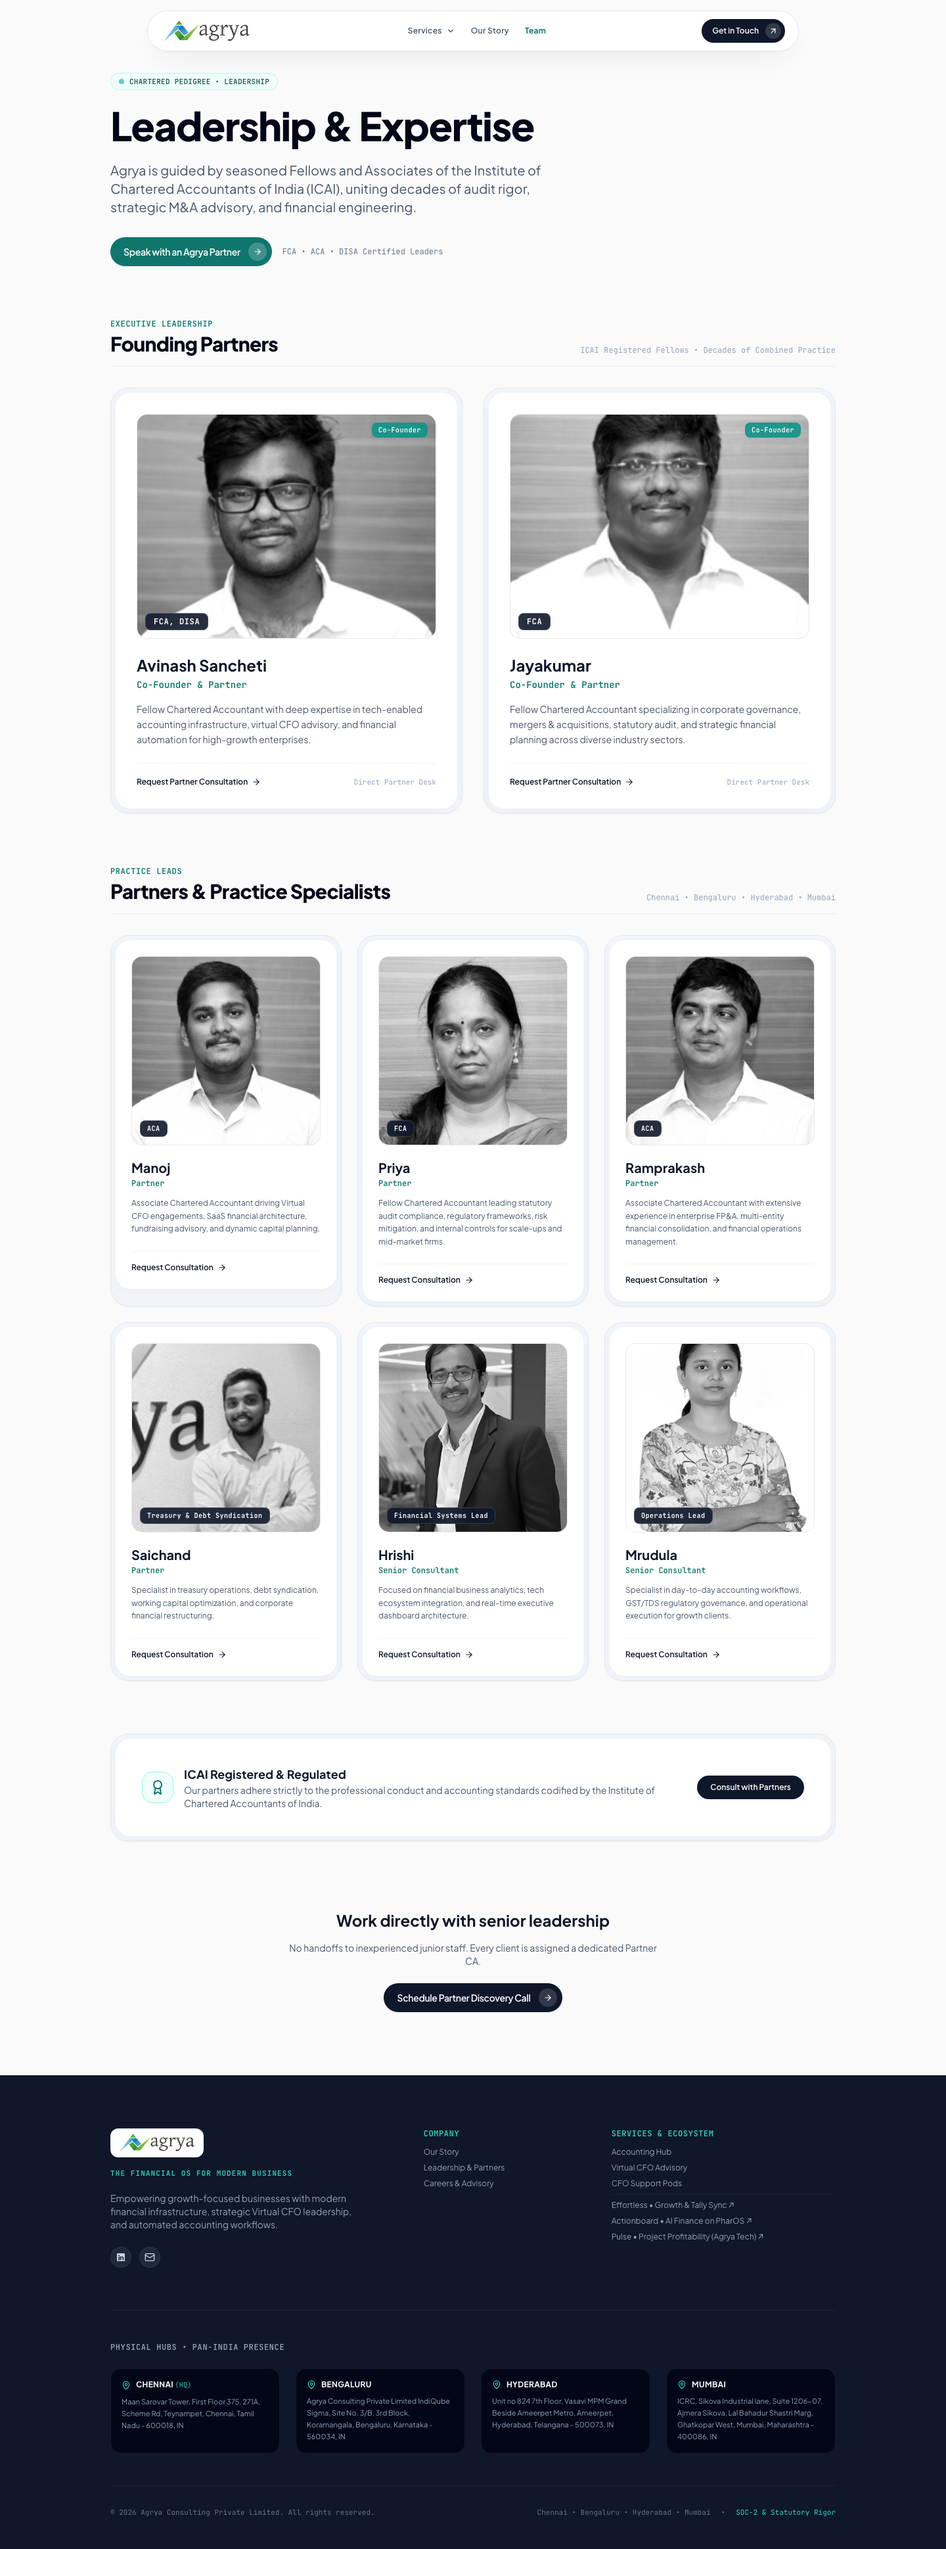
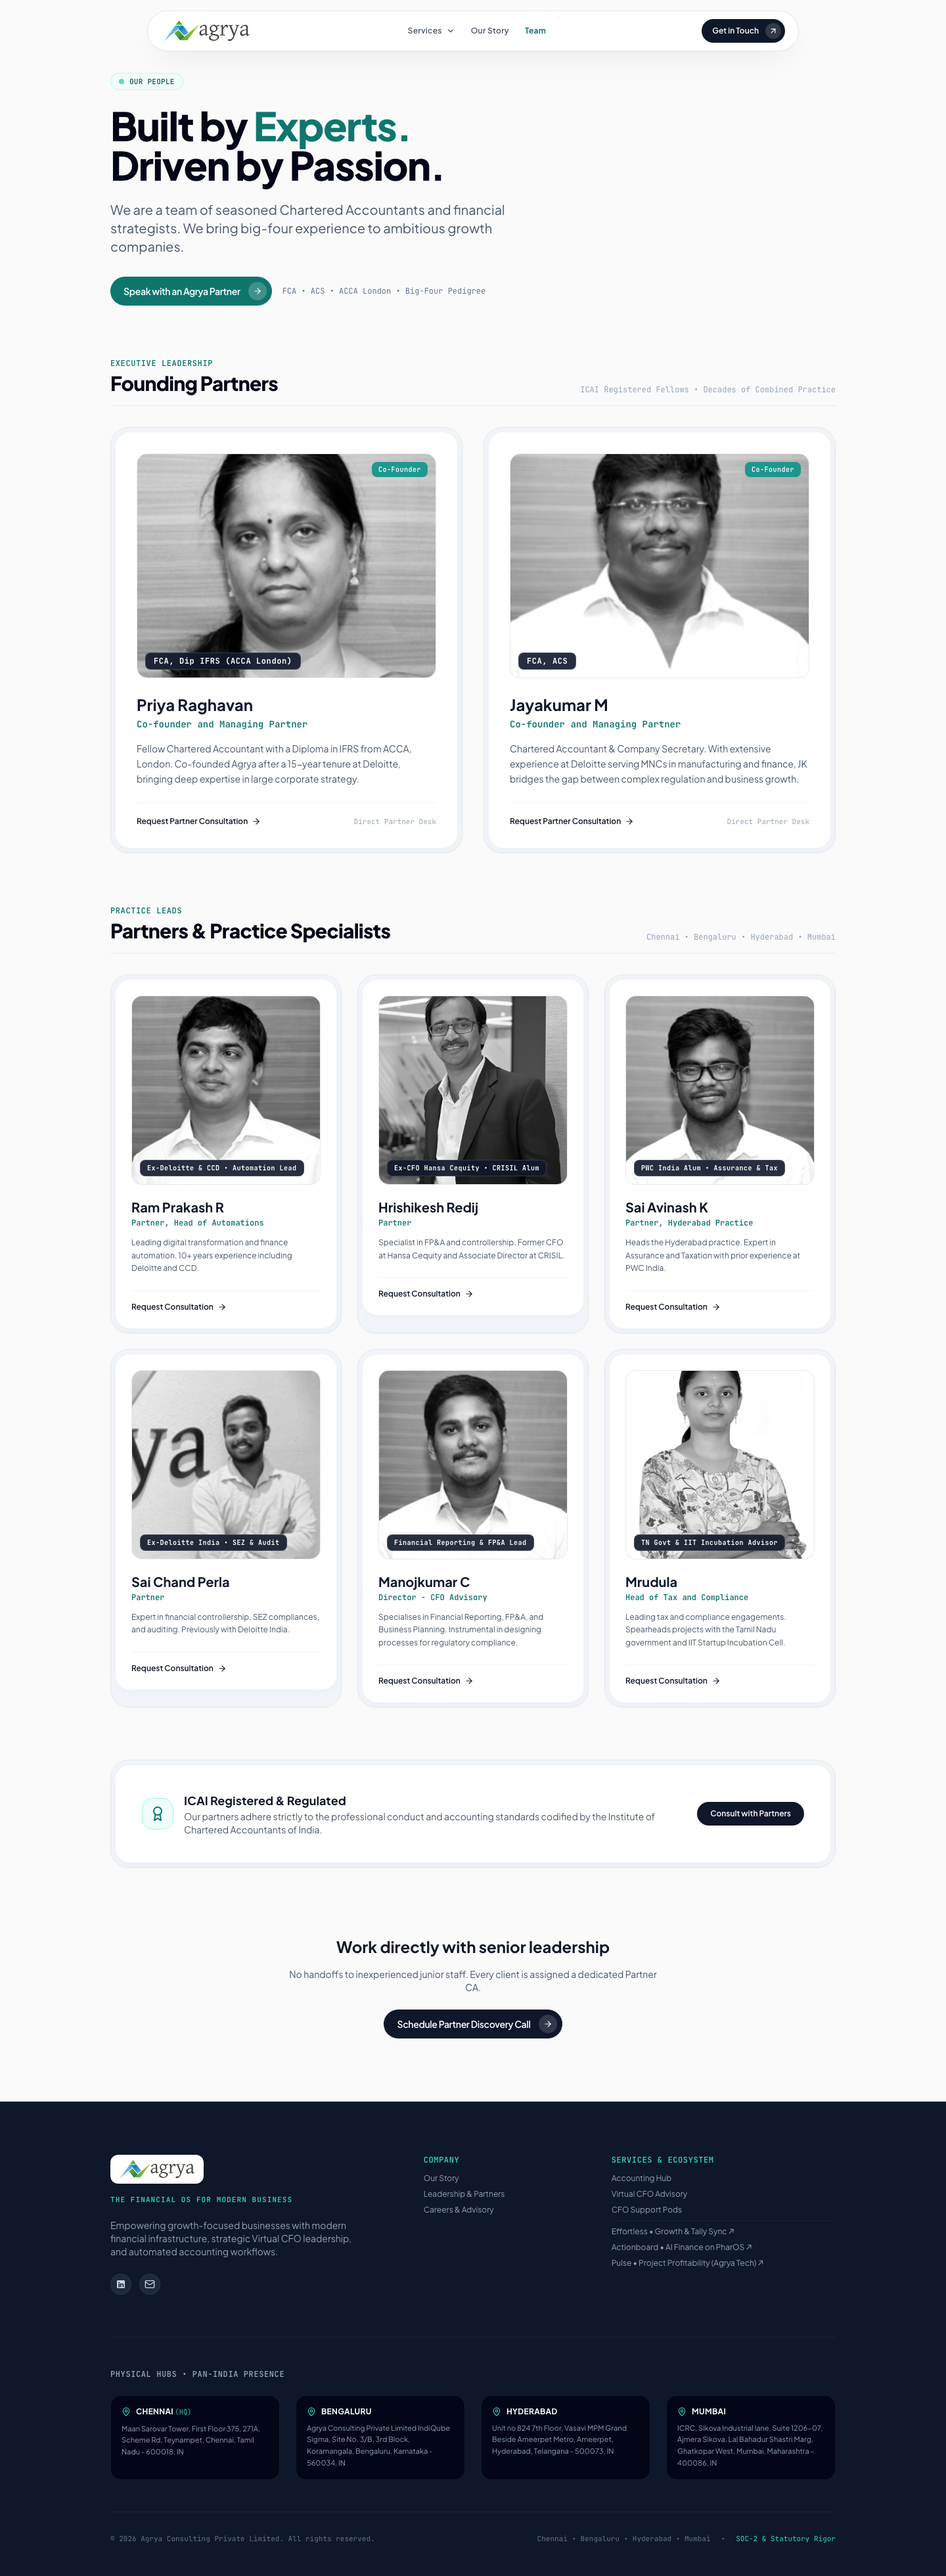
fix(team): restore Priya Raghavan and Jayakumar M as Co-founders with verbatim original order and roles

diff --git a/src/data/team.ts b/src/data/team.ts
@@ -7,69 +7,71 @@ export interface TeamMember {
   image: string;
 }
 
+
 export const teamMembers: TeamMember[] = [
   {
-    id: 'avinash',
-    name: 'Avinash Sancheti',
-    role: 'Co-Founder & Partner',
-    credentials: 'FCA, DISA',
-    bio: 'Fellow Chartered Accountant with deep expertise in tech-enabled accounting infrastructure, virtual CFO advisory, and financial automation for high-growth enterprises.',
-    image: '/assets/original/team/avinash.png'
-  },
-  {
-    id: 'jayakumar',
-    name: 'Jayakumar',
-    role: 'Co-Founder & Partner',
-    credentials: 'FCA',
-    bio: 'Fellow Chartered Accountant specializing in corporate governance, mergers & acquisitions, statutory audit, and strategic financial planning across diverse industry sectors.',
-    image: '/assets/original/team/jayakumar.png'
-  },
-  {
-    id: 'manoj',
-    name: 'Manoj',
-    role: 'Partner',
-    credentials: 'ACA',
-    bio: 'Associate Chartered Accountant driving Virtual CFO engagements, SaaS financial architecture, fundraising advisory, and dynamic capital planning.',
-    image: '/assets/original/team/manoj.png'
-  },
-  {
     id: 'priya',
-    name: 'Priya',
-    role: 'Partner',
-    credentials: 'FCA',
-    bio: 'Fellow Chartered Accountant leading statutory audit compliance, regulatory frameworks, risk mitigation, and internal controls for scale-ups and mid-market firms.',
+    name: 'Priya Raghavan',
+    role: 'Co-founder and Managing Partner',
+    credentials: 'FCA, Dip IFRS (ACCA London)',
+    bio: 'Fellow Chartered Accountant with a Diploma in IFRS from ACCA, London. Co-founded Agrya after a 15-year tenure at Deloitte, bringing deep expertise in large corporate strategy.',
     image: '/assets/original/team/priya.png'
   },
   {
+    id: 'jayakumar',
+    name: 'Jayakumar M',
+    role: 'Co-founder and Managing Partner',
+    credentials: 'FCA, ACS',
+    bio: 'Chartered Accountant & Company Secretary. With extensive experience at Deloitte serving MNCs in manufacturing and finance, JK bridges the gap between complex regulation and business growth.',
+    image: '/assets/original/team/jayakumar.png'
+  },
+  {
     id: 'ramprakash',
-    name: 'Ramprakash',
-    role: 'Partner',
-    credentials: 'ACA',
-    bio: 'Associate Chartered Accountant with extensive experience in enterprise FP&A, multi-entity financial consolidation, and financial operations management.',
+    name: 'Ram Prakash R',
+    role: 'Partner, Head of Automations',
+    credentials: 'Ex-Deloitte & CCD • Automation Lead',
+    bio: 'Leading digital transformation and finance automation. 10+ years experience including Deloitte and CCD.',
     image: '/assets/original/team/ramprakash.png'
   },
   {
-    id: 'saichand',
-    name: 'Saichand',
+    id: 'hrishi',
+    name: 'Hrishikesh Redij',
     role: 'Partner',
-    credentials: 'Treasury & Debt Syndication',
-    bio: 'Specialist in treasury operations, debt syndication, working capital optimization, and corporate financial restructuring.',
+    credentials: 'Ex-CFO Hansa Cequity • CRISIL Alum',
+    bio: 'Specialist in FP&A and controllership. Former CFO at Hansa Cequity and Associate Director at CRISIL.',
+    image: '/assets/original/team/hrishi.jpeg'
+  },
+  {
+    id: 'avinash',
+    name: 'Sai Avinash K',
+    role: 'Partner, Hyderabad Practice',
+    credentials: 'PWC India Alum • Assurance & Tax',
+    bio: 'Heads the Hyderabad practice. Expert in Assurance and Taxation with prior experience at PWC India.',
+    image: '/assets/original/team/avinash.png'
+  },
+  {
+    id: 'saichand',
+    name: 'Sai Chand Perla',
+    role: 'Partner',
+    credentials: 'Ex-Deloitte India • SEZ & Audit',
+    bio: 'Expert in financial controllership, SEZ compliances, and auditing. Previously with Deloitte India.',
     image: '/assets/original/team/saichand.jpg'
   },
   {
-    id: 'hrishi',
-    name: 'Hrishi',
-    role: 'Senior Consultant',
-    credentials: 'Financial Systems Lead',
-    bio: 'Focused on financial business analytics, tech ecosystem integration, and real-time executive dashboard architecture.',
-    image: '/assets/original/team/hrishi.jpeg'
+    id: 'manoj',
+    name: 'Manojkumar C',
+    role: 'Director - CFO Advisory',
+    credentials: 'Financial Reporting & FP&A Lead',
+    bio: 'Specialises in Financial Reporting, FP&A, and Business Planning. Instrumental in designing processes for regulatory compliance.',
+    image: '/assets/original/team/manoj.png'
   },
   {
     id: 'mrudula',
     name: 'Mrudula',
-    role: 'Senior Consultant',
-    credentials: 'Operations Lead',
-    bio: 'Specialist in day-to-day accounting workflows, GST/TDS regulatory governance, and operational execution for growth clients.',
+    role: 'Head of Tax and Compliance',
+    credentials: 'TN Govt & IIT Incubation Advisor',
+    bio: 'Leading tax and compliance engagements. Spearheads projects with the Tamil Nadu government and IIT Startup Incubation Cell.',
     image: '/assets/original/team/mrudula.jpeg'
   }
 ];
+

diff --git a/src/pages/TeamPage.tsx b/src/pages/TeamPage.tsx
@@ -10,8 +10,8 @@ interface TeamPageProps {
 }
 
 export const TeamPage: React.FC<TeamPageProps> = ({ onOpenInquiry }) => {
-  const founders = teamMembers.filter((m) => m.role.includes('Co-Founder'));
-  const partnersAndLeads = teamMembers.filter((m) => !m.role.includes('Co-Founder'));
+  const founders = teamMembers.filter((m) => m.role.toLowerCase().includes('co-founder'));
+  const partnersAndLeads = teamMembers.filter((m) => !m.role.toLowerCase().includes('co-founder'));
 
   return (
     <div className="max-w-6xl mx-auto px-6 pt-12 pb-24 space-y-20">
@@ -19,15 +19,16 @@ export const TeamPage: React.FC<TeamPageProps> = ({ onOpenInquiry }) => {
       {/* HERO SECTION */}
       <section className="max-w-3xl">
         <Badge pulse variant="teal" className="mb-6">
-          Chartered Pedigree • Leadership
+          Our People
         </Badge>
 
         <h1 className="text-4xl sm:text-6xl font-extrabold text-agrya-slate-950 tracking-tight leading-[1.1] mb-6">
-          Leadership & Expertise
+          Built by <span className="text-agrya-teal-700">Experts.</span><br />
+          Driven by Passion.
         </h1>
 
         <p className="text-base sm:text-xl text-agrya-slate-600 leading-relaxed font-normal mb-8 max-w-2xl">
-          Agrya is guided by seasoned Fellows and Associates of the Institute of Chartered Accountants of India (ICAI), uniting decades of audit rigor, strategic M&A advisory, and financial engineering.
+          We are a team of seasoned Chartered Accountants and financial strategists. We bring big-four experience to ambitious growth companies.
         </p>
 
         <div className="flex flex-wrap items-center gap-4">
@@ -39,7 +40,7 @@ export const TeamPage: React.FC<TeamPageProps> = ({ onOpenInquiry }) => {
             Speak with an Agrya Partner
           </ButtonInButton>
           <span className="text-xs font-mono text-agrya-slate-500">
-            FCA • ACA • DISA Certified Leaders
+            FCA • ACS • ACCA London • Big-Four Pedigree
           </span>
         </div>
       </section>
@@ -98,7 +99,7 @@ export const TeamPage: React.FC<TeamPageProps> = ({ onOpenInquiry }) => {
                 </div>
 
                 {/* DIRECT ENGAGEMENT ACTION */}
-                <div className="pt-5 border-t border-agrya-slate-100 flex items-center justify-between">
+                <div className="pt-5 border-t border-agrya-slate-100 flex flex-wrap items-center justify-between gap-2">
                   <button
                     onClick={() => onOpenInquiry(member.name)}
                     className="text-xs font-semibold text-agrya-slate-900 hover:text-agrya-teal-700 flex items-center gap-1.5 transition-colors group-hover:translate-x-0.5 spring-snappy"
